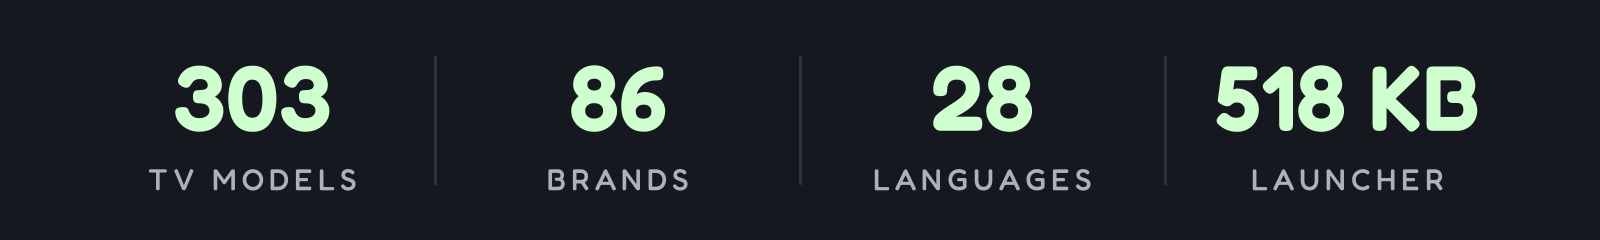
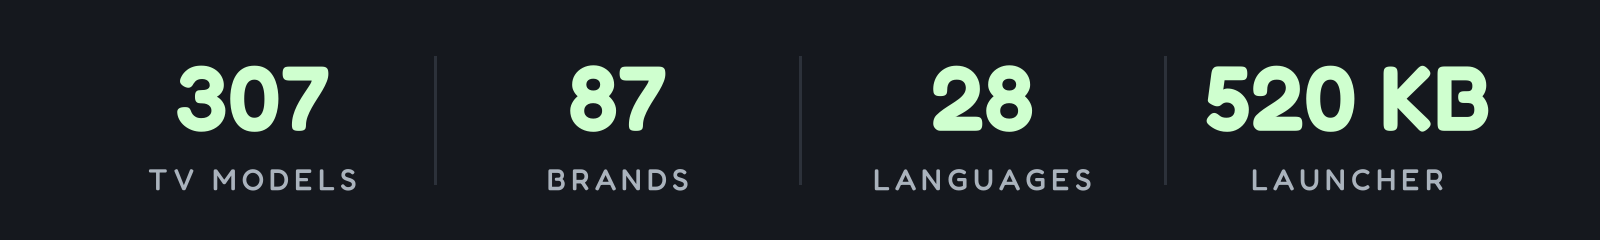
README: tables, counts and card after Round AB (307 TV models, 87 brands, 28 languages, about 520 KB)

Changed region(s): [[0.75, 0.2625, 0.9375, 0.5542], [0.0938, 0.2625, 0.2188, 0.5542], [0.375, 0.2625, 0.4375, 0.5542]]

diff --git a/tests/test_translation_recipe_gate.py b/tests/test_translation_recipe_gate.py
@@ -5,7 +5,7 @@ in `values/strings.xml`, so a full language is by far the largest thing a transl
 adds to `launcher/app/src/main/res/` - and the release APK has a hard budget:
 `.github/workflows/ci.yml`'s `launcher` job, which runs on every pull request in `launcher/`, measures
 `launcher/app/build/outputs/apk/release/app-release.apk` and fails the build at 589,824 B. The launcher
-ships just under that (README.md quotes about 518 KB), and #1271 is a full Korean translation that did
+ships just under that (README.md quotes about 520 KB), and #1271 is a full Korean translation that did
 not fit. Until now the page said nothing about it, so a translator could follow the recipe exactly and
 land a red build at a step the page never mentions.
 

diff --git a/tools/readme_stats.py b/tools/readme_stats.py
@@ -37,7 +37,7 @@ try:
 except ImportError:
     sys.exit("readme_stats.py needs Pillow: tools/venv/bin/pip install -r tools/requirements-perf.txt")
 
-STATS = [("303", "TV MODELS"), ("86", "BRANDS"), ("28", "LANGUAGES"), ("518 KB", "LAUNCHER")]
+STATS = [("307", "TV MODELS"), ("87", "BRANDS"), ("28", "LANGUAGES"), ("520 KB", "LAUNCHER")]
 W, H = 1600, 240
 img = Image.new("RGB", (W, H), "#15181e"); d = ImageDraw.Draw(img)
 def f(size, wt):

diff --git a/examples/README.md b/examples/README.md
@@ -85,8 +85,8 @@ on that firmware, grouped and commented. These are starting points: comment out 
 | `lumio-vision-7/` | Lumio Vision 7 55" (KTC ODM, Realtek, khardi, KTC_LUMIO_4K_EU_23GV1), India | Google TV 14 | First Lumio list: Anoki ACR + Privacy Sandbox ad services, Realtek store-demo/karaoke, Ginga, Google feedback/partner-setup/calendar-sync/ambient screensaver, Play Games, YouTube Music; voice assistant (katniss) off by choice (~100 MB); setupwraith must go with launcherx (active Wi-Fi was system-owned, so Wi-Fi survived; FORCE_SETUPWRAITH=1) and doing so can break Cast; Live TV is com.realtek.tv; remote app buttons YouTube 190 / Netflix 191 / Prime 195 / TL;DR 200; Netflix shipped disabled; reboot-checked |
 | `magcubic-hy300-pro/` | Magcubic HY300 Pro projector (rk3566_rgo, device adt3, Askey) | Android 11 | Calculator, music, file manager, video player, Office, Miracast, HTC store and printing off; same Allwinner/HTC firmware family as the Portronics Beem 470; `com.htc.htcsettings` (projector settings), firmware updaters and factory packages kept; stock HTC launcher left enabled, `set-home-activity` takes Home; HDMI1-3 and CVBS1 list in the Inputs menu; config.json puts SmartTube, YouTube, Nuvio, VLC in the dock |
 | `master-g-mga3200/` | Master-G MGA3200 (SCBC R1, Realtek; Android reports model `ATV R1`), Chile | Android TV 9 | Same SCBC platform as `thomson-t32rtl6000/` and `sanyo-atv-r2/`: Google recommendation rows, telemetry and feedback, SCBC consent agent, S-Channels row, partner auto-installs, E-Show demo, E-Sticker, Vewd store; OTA kept, factory menus left alone; ISDB-T tuner stack, remote/Bluetooth and FastCast must stay; 1.5 GB RAM; 20 packages |
+| `motorola-swtv-24ae-fhd/` | Motorola / Coocaa SWTV-24AE-FHD (24LP6000G, Skyworth OEM, beomil), India/SEA | Google TV 14 | Skyworth OEM board sold as Motorola in India (build UKN4) and Coocaa 24LP6000G in Vietnam/SEA (build UKN6); after-sale/activation trackers, ad services, recommendation rows, demos; Wi-Fi ownership setupwraith gotcha documented; remote Settings button emits keycode 83 (KEYCODE_NOTIFICATION) on scancode 240, needs HomeKeyService; Live TV is `com.cltv.hybrid` (Motorola) or `com.mediatek.wwtv.tvcenter` (Coocaa); reboot-checked |
 | `motorola-mt4310/` | Motorola MT4310 (Newsan; Hisense board, hayward, MediaTek), Argentina | Android TV 11 | Hisense silent auto-installs, store demo and disclaimer, feedback and partner setup, recommendation rows and MediaTek partnercustomizer, printing and calendar; Play Movies, Play Games and TalkBack/TTS off by choice; the factory manager re-enables katniss and tvrecommendations at every boot, so they stay on; 0.9 GB, 720p UI; tvlauncher off for a custom launcher, setupwraith left on (no HOME claim); remote app and Input keys survive the swap; Live TV is `com.mediatek.wwtv.tvcenter` |
-| `motorola-swtv-24ae-fhd/` | Motorola SWTV-24AE-FHD (Skyworth OEM, beomil, MediaTek), India/Global | Google TV 14 | Skyworth after-sale/activation trackers, recommendation rows and partner customizer, TV Guard (dailymanage), Daily Key (myapp), e-manual; Google Play Games and feedback; launcherx + setupwraith off; setupwraith owned Wi-Fi saved at setup; remote Settings button emits keycode 83 (KEYCODE_NOTIFICATION) on scancode 240, needs HomeKeyService; Live TV is `com.cltv.hybrid` |
 | `mtc-uk-2k-android-tv/` | MTC UK 2K Android TV (tabata, MediaTek m5621; JVC-family firmware, `android.autoinstalls.config.JVC` present), UK | Android TV 11 | Google recommendation rows, partner customizer, feedback, ambient mode (katniss + backdrop), retail demo, MStar disclaimer popups, calendar leftovers; UK Freeview suite ships disabled at the factory (re-disabling throws SecurityException, harmless); dumpsys crippled on this firmware ("hung system process"), verify with `pm list packages -d` and screenshots; stock launcher `com.google.android.tvlauncher`, so `restore.sh` needs no launcher argument |
 | `next-start-pro-4k/` | Next Start Pro 4K TV Box (SDT HPR314-Next, Realtek RTD1325), Turkey, streaming box | Google TV 14 | Google feedback, on-device ad personalisation, Google TV home and ambient screensaver, setup wizard (took Home and crash-looped; owned the setup Wi-Fi), factory tests, Next IPTV, Roket and JetTV; Dolby service, Realtek and SDT services kept; **Dolby stutter fix**: Surround on Never plus Realtek's hidden MS12 output set to DD+/Atmos ([README](next-start-pro-4k/README.md)); Projectivy as Home; 2 GB; reboot-checked |
 | `noblex-shinjuku/` | Noblex NoblexTV (Skyworth-built, shinjuku, MediaTek m5621), Argentina | Android TV 11 | Panasonic TH-40HS550K list on the same Skyworth firmware family: Skyworth auto-installs, shop demo and Demo Now, e-manual, MediaTek PQ test tool, Google feedback and smartconnect, recommendation rows and Skyworth's launcher customizer, Assistant, Backdrop; unused apps off by choice; Chromecast kept; 0.9 GB, streaming apps that start on their own at boot are the real RAM cost (appops note); keep `com.mediatek.*` |
@@ -109,6 +109,7 @@ on that firmware, grouped and commented. These are starting points: comment out 
 | `panavox-google-tv/` | PANAVOX Google TV (dongnae) | Google TV 14 | Google TV home replaced (launcherx and setupwraith off), Google telemetry and Privacy Sandbox services, Prime Video, Wi-Fi display sink, calendar and contacts sync, voice (katniss, tv.remote.service), Chromecast, TTS, TalkBack and Google extras off |
 | `peaq-ptv43aqu-5023c/` | PEAQ PTV 43AQU-5023C (Changhong, reports OK. AI PONT, dundas, MediaTek m7332) | Android TV 11 | First PEAQ list, same platform as ok-ai-pont-ikebukuro: Anoki ACR, AI PONT portal, Google recommendations, partner auto-installs, Homwee store/help, Google preloads; Assistant, Ambient, Prime Video and Media Player off by choice; Chromecast and Miracast kept; 1080p, 1.3 GB; setupwraith owns the Wi-Fi network and does not claim HOME, left alone; remote buttons work without tvlauncher; config.json has the dock; reboot-checked |
 | `philips-50pud7406/` | Philips 50PUD7406/43 (TPV, PH0M_EA_T32, MStar/MediaTek), Chile; 55PUS7906/12, Lithuania | Android TV 11 | First list for PH0M_EA_T32 (same board as the 65PUG7406/78 notes), not the org.droidtv xtv platform: DAC/GEL analytics, TPV framework logger and CMS client, app gallery, retail demo, partner customizer, recommendations, ambient mode; Chromecast off because a shared network of ~150 hosts kept pausing and closing YouTube (HOME sent by mediashell); point the screensaver away from the disabled backdrop; Assistant and updates kept; a second unit (EU) adds a boot-to-Live-TV quirk and the MMP player as a TV_INPUT_HARDWARE false positive; a third unit (55PUS7906/12, EU, TPM215E) shows HDMI (PS4) and DVB-T work with the list applied and MMP, eum and nettvregistration kept, and adds six candidate lines |
+| `philips-50puf7099-t3/` | Philips 50PUF7099/T3 (TPV EBONY_V560, Hisilicon), China | Android TV 9 | China-market set, not the org.droidtv platform the other Philips lists cover: BestV/百视通 stock home (`com.bestv.ott`, not in `KNOWN_STOCK_LAUNCHERS`, so pass `STOCK_LAUNCHER=com.bestv.ott`), three package families side by side (`tv.fun.*`, `com.newtv.*`, `com.tpv.*`), no GMS; the casting, camera, video-call and smart-home apps off with the TPV telemetry and ad services and the BestV/NewTV background services, plus the store; the two firmware upgraders are commented out (the tested set had them off, which gives up system OTA, and `tv.fun.tvupgrade` can re-install the BestV home); the preinstalled content apps and the voice assistant kept by choice; the screensaver shipped pointing at a package that is not installed, so there was no DreamService at all; reboot-checked, but one session only and the physical remote untested ([device note](../docs/devices/philips-50puf7099-t3.md)) |
 | `philips-50pus8517/` | Philips 50PUS8517/12 (TP Vision, PH1M_EA_9970A, MediaTek MT5895), Europe | Android TV 11 | First `org.droidtv` TP Vision list: DAC analytics uploader (AWS Firehose), Top Picks, app gallery; Assistant, DLNA, IP control off by choice; disabling `eum` or `aurora` leaves persistent `xtv` retrying forever, and `eum` also kills the sources drawer -- see quirk 5; the same list was also run on a 70PUS8505 and a 65PUS9206 (same board and firmware) |
 | `philips-55oled707/` | Philips 55OLED707/12 (TP Vision, PH1M_EA_9970A, MediaTek MT5895), UK | Android TV 11 | Same board and firmware build as `philips-50pus8517/`, on an OLED panel: DAC analytics, Top Picks, app gallery and its preload installer, Alexa, setupwraith (Ethernet only, Wi-Fi impact unchecked); `nettvbrowser` must stay or ITVX hangs; Play-Fi re-enables itself at every boot, so it is left out; Chromecast and all used streaming apps kept |
 | `philips-55oled708/` | Philips 55OLED708/12 (TPV, PH1M_WW_9972, MediaTek), Poland | Google TV 12 | Google TV generation, not the 707's board: DAC analytics, frameworklogger, Samba TV ACR, NFT Collection, Play-Fi, Control4, Matter, Mimi, Alexa, Chromecast, setupwraith (Wi-Fi re-joined first) and the Philips launcher tab; `demome` holds TV_INPUT_HARDWARE so it stays; the remote's gear and Apps buttons need HomeKeyService (gear by scancode 141); nothing re-enabled after a reboot |
@@ -123,7 +124,7 @@ on that firmware, grouped and commented. These are starting points: comment out 
 | `philips-google-tv-ta7/` | Philips Google TV TA7 (TPV, PH3M_AL_T32, MediaTek), Brazil | Google TV 14 | TP Vision `candeebug`/`gel` analytics, partner attribution and auto-installs, European operator apps, ad-consent and disclaimer popups; Netflix, Prime Video, Google TV app and Chromecast off by choice, Assistant and OTA kept; setupwraith + launcherx off for a custom launcher (setupwraith owned only an unused network); the gear button is KEYCODE_SETTINGS and needs HomeKeyService (`HOME_KEY_SERVICE=1`); theme |
 | `philips-r8g-google-tv/` | Philips R8G Google TV (MOKA, whitefield, Realtek RTD2851F), US | Google TV 14 | Anoki ACR, store-demo overlay, Realtek partner customizer, HbbTV (unused with ATSC), Android ad services; voice and ambient mode off by choice; port 5555 opens without pairing; setupwraith owned the Wi-Fi saved at setup and disabling it deleted the network; the standby light can be switched off over ADB ([note](../docs/devices/philips-r8g.md)) |
 | `philips-smart-4k-google-tv/` | Philips Smart 4K TV (Skyworth, eleonas, MediaTek), India | Google TV 14 | Skyworth recommendations, after-sale/activation trackers, iCast; Chromecast, Assistant off by choice; wireless-debugging pairing, setupwraith |
-| `philips-tpm191e/` | Philips TPM191E / 50PUS8505 / 55OLED854 (TP Vision, PH9M_EA_5599, MediaTek MT5887), Europe | Android TV 12 | `org.droidtv` TP Vision list on Android 12: DAC analytics uploader, usage logging, demo mode, Top Picks, app gallery; voice, Prime Video, DLNA off by choice; Alexa, Chromecast and updates kept; DTS Play-Fi is re-enabled at every boot by the audio service, so it is left on; `eum`, `nettvbrowser`, `menudataapp` and `nettvregistration` kept, as on the 50PUS8517; for the 50PUS8505 and the 55OLED854, only an owner-selected subset and launcher handover were checked in one session, not the full list; the 55OLED854 found its remote's Settings button (scancode 357) and the OLED screensaver logo also seen on a different board ([notes](philips-tpm191e/README.md)) |
+| `philips-tpm191e/` | Philips TPM191E / 50PUS8505 / 55OLED854 / 65OLED804 (TP Vision, PH9M_EA_5599, MediaTek MT5887), Europe | Android TV 12 | `org.droidtv` TP Vision list on Android 12: DAC analytics uploader, usage logging, demo mode, Top Picks, app gallery; voice, Prime Video, DLNA off by choice; Alexa, Chromecast and updates kept; DTS Play-Fi is re-enabled at every boot by the audio service, so it is left on; `eum`, `nettvbrowser`, `menudataapp` and `nettvregistration` kept, as on the 50PUS8517; for the 50PUS8505 and the 55OLED854, only an owner-selected subset and launcher handover were checked in one session, not the full list; the 55OLED854 found its remote's Settings button (scancode 357) and the OLED screensaver logo also seen on a different board; on the 65OLED804 tvrecommendations stayed off through restarts, and a held Home press needs `home_long_press_home` ([notes](philips-tpm191e/README.md)) |
 | `polytron-2k-hayward/` | Polytron 2K (WLTV POLYTRON2K, hayward; Hisense/CVTE board, MediaTek mt5867), Indonesia | Android TV 11 | Hisense silent auto-installs, MediaTek partnercustomizer, Google recommendations, feedback and partner setup, store demo and disclaimer; voice search, Chromecast, YouTube, Netflix and TTS off by choice; 1 GB, 720p UI, decoders up to 1080p; tvlauncher + setupwraith off for a custom launcher; Live TV is com.mediatek.wwtv.tvcenter |
 | `portronics-beem-470/` | Portronics Beem 470 Smart LED Projector (Allwinner H713, 1 GB), India | Android 11 | First Portronics list: HTC stock launcher/OTA/telemetry and app store, Allwinner Live TV/media/theme apps, stock YouTube replaced by SmartTube, AOSP phone/print/cell leftovers; casting/EShare kept; HOME key needs both setup flags, and Settings needs an explicit component because the firmware answers no ACTION_SETTINGS |
 | `prismplus-q65-ultra-r10g/` | PRISM+ Q65 Ultra 2026 QLED 4K AI Google TV (R10G, PRISMPLUS_FFM, MOKA, Realtek RTD2875 SoC, RTD6748 platform) | Google TV 14 | Realtek partner customizer, Google partner setup and auto-installs, ambient mode, unused DTMB/ISDB/ATSC tuners, karaoke, preloaded apps; Max off by choice; keep com.realtek.dtv and com.realtek.tv.atv for inputs |
@@ -137,6 +138,7 @@ on that firmware, grouped and commented. These are starting points: comment out 
 | `sankey-smart-tv-hi3751v350/` | Sankey SMART_TV (CVTE, HiSilicon Hi3751V350, 1 GB) | Android 12 | CVTE ad and push services (`gaia.ad`, `wonder.cloud`, `industries`), the ad screensaver, the "cleaner", the stock weather and Google feedback; Miracast off by choice; the CVTE store kept by default (it hosts the stock launcher's Apps grid; the tested set turned it off because it kept pushing a CVTE-signed "WebTube" as a YouTube update); no Developer options and no App info page, ADB from the CVTE factory menu (MENU 1147); stock launcher kept (no FallbackHome, `COMMON_HOME`, #1201); Inputs pill opens `com.cvte.tv.globalui/.InputSourceActivity` |
 | `sanyo-atv-r2/` | SANYO ATV R2 (SCBC, Realtek RTD285O) | Android TV 9 | S-Channels, E-SHOW demo, Vewd, TV Booster, SANYO OTA |
 | `sber-salute-tv-at30a6/` | Sber Salute TV 43" (CVTE TP.T962D4.PC756, Amlogic T962D4, at30a6, 2 GB), Russia | StarOS 1.101 / Android 13 | First StarOS list: Sber content apps, SberPrime, kids room, smart home, Salute browser and screensaver, app catalogue, surveys, beta, bug reporter, cleaner, Huawei Cast/MHshare/DLNA receivers; OTA kept by default; Sber's platform service reinstalls removed apps (disable only) and cannot itself be disabled (its core re-enables it, component disables are refused), so the Salute voice assistant stays; Developer options locked and Sber Studio's ADB switch did not open 5555, see README; app "rotation" limit lowered with `sys_storage_threshold_percentage`; Inputs work through `ru.sberdevices.tvinputs`; reboot-checked |
+| `seleco-tv39020hda9smart/` | Seleco TV39020HDA9SMART 39" (AT_SmartScreen, Toptech + Zeasn, Realtek RTK2842P), Italy | Android TV 9 | Same Toptech/Zeasn platform as [caxium-58-realtek-rtk2851p](caxium-58-realtek-rtk2851p/): Zeasn device portal, services feed and store, partner auto-installs, retail demo, print spooler, camera, live wallpapers, Chrome, USB media player; phone Netflix, voice search and Miracast off by choice; shipped with the phone build of Prime Video instead of the TV app, replaced by hand; stock Zeasn Home disabled last; Live TV and inputs stay with `com.toptech.tvmenu`, whose `.input.InputActivity` the Inputs pill opens; the remote's Input key still goes to the Zeasn Home; config.json has the dock; reboot-checked |
 | `sharp-2t-c32gh3000i/` | SHARP 2T-C32GH3000I (SHARP 2K Smart TV-A; Skyworth-built, beomil, MediaTek mt5867), Indonesia | Google TV 14 | Same platform as the Motorola SWTV-24AE-FHD: Skyworth after-sale/activation trackers, recommendation rows and partner customizer, TV Guard, Daily Key, e-manual, iCast; Android ad services; dreamx, Chromecast, Prime Video, YouTube Music off by choice; wireless-debugging pairing only; setupwraith owned the Wi-Fi saved at setup; remote gear sends keycode 83; Live TV is `com.cltv.hybrid`; 1 GB |
 | `sharp-aquos-tve21f/` | SHARP AQUOS TVE21F (AQUOS-TVE21F, banqiao, CVTE/MediaTek), UK | Android TV 14 | Anoki ACR, retail demo, factory/test apps, PAI auto-installs; Google recommendations and setup wizard (Wi-Fi owned by system); Assistant, Chromecast and phone remote off by choice; unused streaming off by choice; 1.8 GB; YouTube button stays with the vendor `com.cvte.hotkey.dispatcher` |
 | `sharp-aquos-tve23a/` | SHARP AQUOS TVE23A (AQUOS-TVE23A, sandiego, CVTE/MediaTek mt5889), Denmark | Google TV 14 | Google TV sibling of the TVE21F: Anoki ACR, retail demo, e-manual, factory/test apps, partner rows; Android ad services; Prime Video, YouTube, YouTube Music, Play Games, Chromecast and Google TTS off by choice; setupwraith owned the Wi-Fi saved at setup; remote gear is KEYCODE_STAR (17), YouTube is KEYCODE_TV_INPUT_COMPOSITE_1, Netflix stays with the firmware; 2.7 GB |
@@ -191,6 +193,7 @@ on that firmware, grouped and commented. These are starting points: comment out 
 | `stellamore-t950s/` | Stellamore T950S projector (Droidlogic be30a3, Amlogic txhd2) | Android 13 | Zeasn App Store and stock launcher both bundle Google Ads (doubleclick); Zeasn device portal/OTA, Stellamore factory/test/guide; 1 GB; keystone correction must stay enabled |
 | `super-general-cvte-t972/` | Super General 55" 4K (CVTE TP.SK708D.PC821, Amlogic T972, x30a4, 1 GB), Saudi Arabia | Android 9 | Not Google TV; `com.sdk.hades` adware in two silently installed packages, CVTE ad services and ad screensaver, Stark store, cleaner, weather, firmware updater; Play Services ships disabled (`pm enable` it); ADB from the factory menu (MENU 1147 on a source); app buttons come from CVTE's hotkey service, Source is left to the app in front (open `com.cvte.tv.globalui/.InputSourceActivity`), a key-filtering accessibility service breaks Volume hold; NFX repointed with a same-package stand-in; third-party launcher; reboot-checked; [notes](super-general-cvte-t972/README.md) |
 | `tcl-mt9655-cn-android14/` | TCL / FFalcon China (tcl9655_cn, MediaTek MT9655 "merak", UTT2.250416.001 AU01) | Android 14 | No Google services; no Developer options at all — the ADB toggle opens adbd in TLS mode on a random port with no pairing service, so the only way in is a dual male USB-A cable (PC USB 3.0 → TV USB 2.0) and then `adb tcpip 5555`; every adb install is refused (`Install not allowed` from system_server), only a USB stick through 电视卫士 installs apps; debloat only, stock launcher cannot be replaced (`launcherStrategy` allowlist empty, verifier demands the cyberui signature); reboot-checked; [why the debloat works and the installs do not](../docs/devices/tcl-mt9655-cn-android14.md) |
+| `tcl-32es570f/` | TCL 32ES570F (C06, C06_2K_GB, MStar mt5867, 939 MB), Italy | Android TV 11 | Older V8-T221T01-LF1V121 firmware than `tcl-32s5k/`; TCL Home, Quick Panel and T-Solo disabled with the remote still working; ttvs re-enables Rakuten, Alexa and usercenter at every boot; TGuard disables but keeps running; no standby-LED setting |
 | `tcl-32l5a/` | TCL 32L5A (C06, model "Smart TV", 1 GB) | Android TV 11 | Same C06 platform as `tcl-32s5400a/` (SDK 30, build AR2101); TCL account, TGuard cleaner, promo rows, TCL Channel waterfall, store demo sticker, browser, feedback and Google TV recommendations; custom Apple TV style launcher installed as default home (`com.gathin.tvhome`), stock launcher `com.google.android.tvlauncher` disabled; Live TV `com.tcl.tv` and inputs `com.tcl.tvinput` kept; reboot-checked |
 | `tcl-32s5400a/` | TCL 32S5400A (C06, C06_2K_GB, MediaTek MT9221, 1 GB), 2023 | Android TV 11 | Same C06 platform as `tcl-40s5400a/`, but older AR2101 / V8-T221T05-LF1V005 firmware and SonyLIV/YuppTV preloads; TCL account/TGuard/promos, Google extras, regional preloads; firmware updater kept (ttvs is the updater); stock launcher priority 2, keep the remote/BT/TCL settings packages; a second unit on V8-T221T01-LF1V121 needs 500 MB free before any install (`pm trim-caches`) |
 | `tcl-32s5k/` | TCL 32S5K (C06, C06_2K_GB, MediaTek MT9221, 918 MB), EU | Android TV 11 | Same build family as the 40S5400A; TCL account/TGuard/promo rows, USB players, voice and photo screensaver off by choice; `com.tcl.usercenter` is re-enabled by ttvs at every boot; setupwraith safe here (Settings owns the Wi-Fi); remote standby is a full power-down |
@@ -220,6 +223,7 @@ on that firmware, grouped and commented. These are starting points: comment out 
 | `tcl-55p7k/` | TCL 55P7K, Middle East (G10, G10_4K_GB, Realtek RTD2875P) | Google TV 12 | Same G10 build as `tcl-g10-google-tv/` but logkit, Samba TV ACR and ttvs ship enabled; TCL Channel, push messages, TGuard, T-Solo, Alexa, hotel/demo; OSN+, Disney+ MEA, iQIYI off by choice; setupwraith before launcherx; Settings key is KEYCODE_NOTIFICATION, Web key 4159; TCL Audio Only turns the panel off with sound playing |
 | `tcl-55p8ls/` | TCL 55P8LS QD-Mini LED, Vietnam (G10, G10_4K_GB_32BIT, Realtek rtd6748) | Google TV 12 | Same G10 build as `tcl-g10-google-tv/`; Samba TV ACR, logkit, ttvs, TCL Channel/push/partner home rows, hotel/demo, TGuard, Alexa, T-Solo, MagiConnect, Miracast; Prime Video, YouTube Music, Play Movies/Games off by choice; saved Wi-Fi belonged to setupwraith (re-join first); Play Store auto-installs VTV Go, HBO Max, iQIYI at sign-in; launcher key services need APP_AUTO_START; reboot-checked |
 | `tcl-q10g-pro/` | TCL 55Q10G Pro (China, tcl_mt5879_cn, MediaTek MT9952) | Android TV 11 | No Google services, TCL boot ad + analytics/BI, OTA and account services; ADB opens from Device info + UP/DOWN/LEFT/RIGHT, not the build number; debloat only, stock launcher cannot be replaced (signature check at install time) |
+| `tcl-55q6cx1/` | TCL 55Q6CX1 (Smart TV Pro, G08, G08_4K_GB, MediaTek) | Google TV 12 | European G08 build (STT2.221228.001 AS35): TCL promos, push messages, onboarding overlays, telemetry/logkit, Google Play Movies, TTS, dreamx screensaver; launcherx and setupwraith safely disabled (Wi-Fi owned by system, not setupwraith) and replaced with CleanYourTV; Game Bar, T-Exhibit, AirPlay, Chromecast, Miracast and DVB tuner kept; suspension/interactive/ttvs kept (they host the Source QuickPanel and live TV overlays); key helpers left unbound to preserve volume ramp; duplicate WebViews commented (check the active provider first); reboot-checked |
 | `tcl-55s470g/` | TCL 55S470G (G10, G10_4K_US_NF, Realtek), US | Google TV 12 | Same build as the G10 list, but Samba TV, logkit and ttvs ship enabled; ttvs kept (it hosts the firmware updater) and re-enables Samba's front end at boot, so opt out in Settings > Privacy too; Assistant voice and Chromecast off by choice; setupwraith off (Wi-Fi belonged to android.uid.system); remote gear button (keycode 83) opens the quick settings panel and the app buttons are remapped (Pluto TV opens Tubi); `APP_AUTO_START` must be allowed for the launcher or TclAppBoot stops the key service at boot; reboot-checked |
 | `tcl-55s546-us/` | TCL 55S546 (5-Series, G03_4K_US, BeyondTV4, GTV93), US | Google TV 11 | Same G03 platform as tcl-g03-google-tv on the US GTV93 build: TCL telemetry, promos and preloads off; TCL+ and TCL Channel kept; launcherx off with remote app buttons and volume repeat still working, no key helper needed; reboot-checked |
 | `tcl-58s571f-fire-tv/` | TCL 58S571F (TCL Fire TV, AFTDEC012E, ginza, MediaTek mt5896), US | Fire OS 8 / Android 11 | The S5 sibling of `tcl-43s450f-ca/` (same AFTDEC012E platform as `amazon-fire-tv-aftdec012e/`): Amazon ACR, ad/recommendation feeders, advertising ID, Shopping, demo, tutorials, telemetry, KSO service; Alexa extras, preloads and TCL apps (OpApp, Luna, Kids, News, Gallery, System Status, Prime Video) off by choice; Alexa voice returns at every boot as on the Hisense; the stock launcher also owns Settings; Appstore kept for the remote's branded buttons; AirPlay, Miracast, Live TV, Silk kept; debloat only |
@@ -248,7 +252,7 @@ on that firmware, grouped and commented. These are starting points: comment out 
 | `tcl-q7c-google-tv/` | TCL Q7C (Smart TV Pro, G08, G08_4K_GB, MediaTek tcl9618), European firmware | Google TV 14 | Same build as the 85RM7L list (AU02), with the launcher: TCL promos, home pushes, Channel+/waterfall, account, TGuard cleaner, log capture, Android 14 ad and privacy services, manual/repair/hearing/solo apps, soundbar updater, Alexa; Assistant, AirPlay, Miracast/T-Cast, Netflix, Prime Video, Google TV and Play Games off by choice; ttvs, Chromecast, game bar and dreamx kept; launcherx and setupwraith off (Ethernet, FORCE_SETUPWRAITH=1); every remote button is scancode 240, keycodes in the README (Settings 83, YouTube 190); the debugging switch did not close port 5555, check adb_enabled; reboot-checked; a second unit, a 65Q7D Pro on Wi-Fi in Greece, is in its README (Wireless debugging only, setupwraith owned the Wi-Fi in use, the key helpers cost volume repeat); a fourth unit, a 65T8C on Wi-Fi, also in its README (Wireless debugging only, AirPlay and Prime Video kept, TCL keyboard off after Gboard); a fifth unit, an EU/UK set OTA'd from Android 12, in its README (OTA re-enabled nothing and installed channelplus; Source-key QuickPanel via suspension; keyboard and browser kept) |
 | `tcl-qm6k-google-tv/` | TCL QM6K Pro, 2025 (G08, MediaTek tcl9618) | Google TV 14 | Samba TV ACR (ttvs), TCL TV+, TCL Live, store/hotel demo; setupwraith must go for a custom launcher (also AU14, #23); a QM7 (2024) owner ran this list with seven extra packages — [deltas and a hung Cast receiver](../docs/devices/tcl-75qm751g-qm7.md) |
 | `tcl-g07-google-tv/` | TCL Smart TV (G07, G07_4K_GB_NF, Realtek RTD2851A, 2 GB) | Google TV 11 | TCL BI analytics (ttvs, also the firmware updater), TGuard, waterfall, TCL Live, TCL Home dashboard, messages, hotel/demo, partner auto-installs; voice, Miracast, MagiConnect, T-Solo, firmware updates and unused preloads off by choice, Chromecast kept; launcherx, setupwraith and dreamx off (Wi-Fi belonged to android.uid.system), reboot-checked; Input key works without InputKeyService, gear is scancode 561 (`settings_key_scancodes`), Netflix and YouTube buttons need an accessibility helper |
-| `tcl-g03-google-tv/` | TCL Smart TV Pro (G03, G03_4K_GB, BeyondTV4, Realtek R51MT05, V8-R51MT05-LF1V620), Middle East firmware | Google TV 11 | Same platform as tcl-43c645: TCL BI analytics and logkit, promo rows (TCL Channel, BrowseHere), dashboard, messages, partner auto-installs; streaming apps, voice, Chromecast, Miracast/T-Cast, USB player, game bar, TCL Live off by choice, firmware updates kept; launcherx, setupwraith and dreamx off (setupwraith owned the Wi-Fi: forget and re-join first), reboot-checked; Input key works without InputKeyService, gear is keycode 4077 (`settings_key_keycodes`), config.json sets Live TV to com.tcl.tv; a second unit on the same build ships a Bluetooth TCL_RC902V_M1 remote whose Netflix/YouTube/Prime buttons die with launcherx and come back from `app_keys` (in config.json, verified with the real remote) |
+| `tcl-g03-google-tv/` | TCL Smart TV Pro (G03, G03_4K_GB / G03_4K_US, BeyondTV4, Realtek R51MT05, V8-R51MT05-LF1V620 / LF1V813), Middle East and US firmware | Google TV 11 | Same platform as tcl-43c645: TCL BI analytics and logkit, promo rows (TCL Channel, BrowseHere), dashboard, messages, partner auto-installs; streaming apps, voice, Chromecast, Miracast/T-Cast, USB player, game bar, TCL Live off by choice, firmware updates kept; launcherx, setupwraith and dreamx off (setupwraith owned the Wi-Fi: forget and re-join first), reboot-checked; Input key works without InputKeyService, gear is keycode 4077 (`settings_key_keycodes`), config.json sets Live TV to com.tcl.tv; a second unit on the same build ships a Bluetooth TCL_RC902V_M1 remote whose Netflix/YouTube/Prime buttons die with launcherx and come back from `app_keys` (in config.json, verified with the real remote); a US unit (GTV93) shows dreamx also hosts the Google Home panel and TCL's updater needs StartandroidService for its device number, so it stays on |
 | `tcl-g05-google-tv/` | TCL Smart TV Pro (G05, G05_4K_US, MediaTek MT5889); also TCL 55Q750G | Google TV 11 | TCL Channel, waterfall, ttvs BI (also the firmware updater on AR71), TGuard; Quick Panel off by choice (the 55Q750G keeps it for the Input key); usercenter and smartalexa come back at every boot; setupwraith returned after a reboot on AR68, launcher half unverified there, but on a 55Q750G (AR71) build-and-install.sh worked and Home held after a reboot, once the setup Wi-Fi was forgotten and re-joined; remote buttons work without the key services (the G05_4K_GB units kept it off too, see the [55C728 note](../docs/devices/tcl-55c728-g05-4k-gb.md)) |
 | `tcl-g08-au-android12/` | TCL Smart TV Pro (G08, G08_4K_GB, MediaTek), Australian firmware | Google TV 12 | Same fingerprint as the EU G08 list (STT2.221228.001 AS34) plus the Australian preloads: Stan, AirPlay (kept), TCL Channel, TCL Live free channels (channelplus), e-sticker, hotel portal, TCL Guard; no Google Cast or voice assistant. Launcher with HomeKeyService: Settings, TV (HDMI 1), YouTube→SmartTube and Netflix→Plex buttons mapped, at the cost of volume repeat (measured on this G08 too). No aerial, so with channelplus off there is no Live TV: the tuner only holds TCL Live IP channels and falls back to HDMI 1 |
 | `tcl-g08-eu-android12/` | TCL Smart TV Pro (G08, G08_4K_GB, MediaTek), Europe/UK firmware | Android TV 12 | Older EU G08 build (STT2.221228.001 AS34): the US list applies only partially — no Samba-ACR ttvs payload, no AirplayAPK, no hotelmenu/TV+/e-sticker preloads, no Android 14 ad services. TCL pushes/demo/help, duplicate webviews, Mediatek casting leftovers, Play Movies, TTS, dreamx, printspooler; suspension/interactive/ttvs listed as DO-NOT-DISABLE (they host the Source-key QuickPanel and the TIAS source overlay — disabling kills the remote Source key, verified fix on a live set); stock launcher kept; debloat only. A second unit, a 75Q7C on AS36 with five more TCL preloads (commented), runs the launcher as Home: remote keycodes and the volume-repeat trade in the README |
@@ -298,7 +302,7 @@ on that firmware, grouped and commented. These are starting points: comment out 
 | `xiaomi-mitv-moor2/` | Xiaomi MiTV-MOOR2 / MOOR4 (venom, MediaTek) | Google TV 11 | Mi ad row and PatchWall, Mi analytics, MiLink, store demo; setup wizard off so a third-party launcher can own Home; MOOR4 on the same firmware: setupwraith owned the setup Wi-Fi (forget and re-join first), Continue watching is not in the local TV provider |
 | `xiaomi-mitv-mosr4/` | Xiaomi MiTV-MOSR4 (irobot, MediaTek) | Google TV 11 | Mi ad rows and PatchWall, Mi analytics, TV Manager, Miracast sink, OTA off by choice; setup wizard off so a third-party launcher can own Home; `overseaservice` hosts the Netflix key and must stay; second unit: setupwraith before launcherx, remote buttons need both key services and `config.json`, and those services cost the volume's live repeat; [notes](../docs/devices/xiaomi-mitv-mosr4.md) |
 | `xiaomi-mitv-mssp0/` | Xiaomi MiTV-MSSP0 / Xiaomi Mi TV 4A 32 (amelie), firmware PI.5926 | Android TV 9 | Xiaomi telemetry and promo helpers, Google recommendation feeds; Assistant, Gallery and media browser off by owner choice; Clock replaces Backdrop; TV inputs, Gboard, Bluetooth and firmware update settings kept; 11 packages, applied October 19 and checked again October 21 |
-| `xiaomi-mitv-mssp1/` | Xiaomi MiTV-MSSP1 (nino), firmware PI.5925 | Android TV 9 | Eight Xiaomi telemetry/content and Google recommendation packages; replacement Home reboot-checked; updater, Assistant, Chromecast, USB media and TV input services kept enabled |
+| `xiaomi-mitv-mssp1/` | Xiaomi MiTV-MSSP1 (nino), firmware PI.5925 | Android TV 9 | Eight Xiaomi telemetry/content and Google recommendation packages, plus verified extras (report senders, partner auto-installer, both heavy screensavers with a reassign-first warning, TV Manager, restorable Google preinstalls, Xiaomi media/accessibility leftovers); replacement Home reboot-checked; updater, Assistant, Chromecast, USB media and TV input services kept enabled |
 | `xiaomi-mitv-mssp2/` | Xiaomi MiTV-MSSP2 (volver, MediaTek), firmware PI.4621, low-RAM | Android TV 9 | PatchWall, Mi analytics, TV Manager, partner auto-installs, Google feedback/bug reports, old leanback home still installed; hotkeys, phone remote, Media Player, updater and Chromecast kept; empty Live TV/HDMI screenshots |
 | `xiaomi-mitv-mssp3/` | Xiaomi MiTV-MSSP3 (machuca, MediaTek) | Android TV 11 | PatchWall, Mi analytics, Netflix observer; Chromecast, screensavers, unused streaming apps off by choice |
 | `xiaomi-mitv-mssp3-android9/` | Xiaomi MiTV-MSSP3 (machuca, MediaTek), Android 9 firmware PI.7524 | Android TV 9 | Same model before its Android 11 update: PatchWall, Mi analytics, TV Manager, OTA; voice assistant re-enables itself at every boot (updated system app rescan); screensaver, preloaded apps off; 1.8 GB, swap full before; notes for the older PI.4663 build (two packages absent, old leanback home to disable) |

diff --git a/README.md b/README.md
@@ -20,7 +20,7 @@
 </p>
 
 <p align="center">
-  <a href="docs/PRESS.md"><img src="docs/card.jpg" alt="303 TV models · 86 brands · 28 languages · 518 KB launcher. Featured in TechCrunch, TechRadar, Tom's Guide, Mashable, Android Authority, XDA, FlatpanelsHD, It's FOSS, Phandroid, GIGAZINE, Xataka, WinFuture, Frandroid, Macitynet, Techaeris, TechPP and 180 more: 196 articles from 32 countries. Before: stock Google TV home with a sponsored ad. After: the Clean Your TV launcher." width="800"></a>
+  <a href="docs/PRESS.md"><img src="docs/card.jpg" alt="307 TV models · 87 brands · 28 languages · 520 KB launcher. Featured in TechCrunch, TechRadar, Tom's Guide, Mashable, Android Authority, XDA, FlatpanelsHD, It's FOSS, Phandroid, GIGAZINE, Xataka, WinFuture, Frandroid, Macitynet, Techaeris, TechPP and 180 more: 196 articles from 32 countries. Before: stock Google TV home with a sponsored ad. After: the Clean Your TV launcher." width="800"></a>
 </p>
 
 **The viral tweet:** [x.com/gathint/status/2111379569030939102](https://x.com/gathint/status/2111379569030939102)
@@ -118,14 +118,15 @@ Tested lists from contributors, one folder per model in [`examples/`](examples/)
 
 <!-- tv-brands:start: generated by tools/gen_tables.py from examples/*/tv.json; edit those, not this -->
 
-**TCL** 66 · **Sony** 37 · **Xiaomi** 31 · **Philips** 16 · **Skyworth** 11 · **Hisense** 10 · **Amazon Fire TV** 7 ·
+**TCL** 68 · **Sony** 37 · **Xiaomi** 31 · **Philips** 17 · **Skyworth** 11 · **Hisense** 10 · **Amazon Fire TV** 7 ·
 **BenQ** 4 · **OnePlus** 4 · **Panasonic** 4 · **Thomson** 4 · **Google** 3 · **Haier** 3 · **JVC** 3 ·
 **NVIDIA Shield** 3 · **SHARP** 3 · **Vu** 3 · **CHiQ** 2 · **FFalcon** 2 · **Hitachi** 2 · **Insignia Fire TV** 2 ·
 **Kalley** 2 · **Kogan** 2 · **Motorola** 2 · **Nokia** 2 · **onn** 2 · **RCA** 2 · **Redmi** 2 · **RockTek** 2 ·
 **Sankey** 2 · **Toshiba** 2 · **Vidda** 2 ·
 Acer · AiPro2K · AIWA · AQUA · Artel · ASUS · Beko · Caxium · Cecotec · Challenger · Compac · Dcolor · Dialog · EKO ·
 Freebox · Grundig · INCLO · Karbonn · KTC · Liberton · Lumio · Master-G · MTC · Next · Noblex · OK. · Panavox · PEAQ ·
-Polytron · PRISM+ · SANYO · Sber · Super General · Tele System · TiVo · Tornado · Turkcell · Tuvio · Verizon · Vision ·
+Polytron · PRISM+ · SANYO · Sber · Seleco · Super General · Tele System · TiVo · Tornado · Turkcell · Tuvio · Verizon ·
+Vision ·
 Alwtniet, Anker Nebula, BYINTEK, Epson, Formovie, Gadnic, HOTACK, HY320, JMGO, Magcubic, Portronics, Stellamore, Wanbo and XGIMI projectors
 
 <!-- tv-brands:end -->
@@ -215,8 +216,8 @@ Alwtniet, Anker Nebula, BYINTEK, Epson, Formovie, Gadnic, HOTACK, HY320, JMGO, M
 | Lumio Vision 7 55" (KTC ODM, Realtek, khardi, KTC_LUMIO_4K_EU_23GV1), India | Google TV 14 |
 | Magcubic HY300 Pro projector (rk3566_rgo, device adt3, Askey) | Android 11 |
 | Master-G MGA3200 (SCBC R1, Realtek; Android reports model `ATV R1`), Chile | Android TV 9 |
+| Motorola / Coocaa SWTV-24AE-FHD (24LP6000G, Skyworth OEM, beomil), India/SEA | Google TV 14 |
 | Motorola MT4310 (Newsan; Hisense board, hayward, MediaTek), Argentina | Android TV 11 |
-| Motorola SWTV-24AE-FHD (Skyworth OEM, beomil, MediaTek), India/Global | Google TV 14 |
 | MTC UK 2K Android TV (tabata, MediaTek m5621; JVC-family firmware, `android.autoinstalls.config.JVC` present), UK | Android TV 11 |
 | Next Start Pro 4K TV Box (SDT HPR314-Next, Realtek RTD1325), Turkey, streaming box | Google TV 14 |
 | Noblex NoblexTV (Skyworth-built, shinjuku, MediaTek m5621), Argentina | Android TV 11 |
@@ -239,6 +240,7 @@ Alwtniet, Anker Nebula, BYINTEK, Epson, Formovie, Gadnic, HOTACK, HY320, JMGO, M
 | PANAVOX Google TV (dongnae) | Google TV 14 |
 | PEAQ PTV 43AQU-5023C (Changhong, reports OK. AI PONT, dundas, MediaTek m7332) | Android TV 11 |
 | Philips 50PUD7406/43 (TPV, PH0M_EA_T32, MStar/MediaTek), Chile; 55PUS7906/12, Lithuania | Android TV 11 |
+| Philips 50PUF7099/T3 (TPV EBONY_V560, Hisilicon), China | Android TV 9 |
 | Philips 50PUS8517/12 (TP Vision, PH1M_EA_9970A, MediaTek MT5895), Europe | Android TV 11 |
 | Philips 55OLED707/12 (TP Vision, PH1M_EA_9970A, MediaTek MT5895), UK | Android TV 11 |
 | Philips 55OLED708/12 (TPV, PH1M_WW_9972, MediaTek), Poland | Google TV 12 |
@@ -253,7 +255,7 @@ Alwtniet, Anker Nebula, BYINTEK, Epson, Formovie, Gadnic, HOTACK, HY320, JMGO, M
 | Philips Google TV TA7 (TPV, PH3M_AL_T32, MediaTek), Brazil | Google TV 14 |
 | Philips R8G Google TV (MOKA, whitefield, Realtek RTD2851F), US | Google TV 14 |
 | Philips Smart 4K TV (Skyworth, eleonas, MediaTek), India | Google TV 14 |
-| Philips TPM191E / 50PUS8505 / 55OLED854 (TP Vision, PH9M_EA_5599, MediaTek MT5887), Europe | Android TV 12 |
+| Philips TPM191E / 50PUS8505 / 55OLED854 / 65OLED804 (TP Vision, PH9M_EA_5599, MediaTek MT5887), Europe | Android TV 12 |
 | Polytron 2K (WLTV POLYTRON2K, hayward; Hisense/CVTE board, MediaTek mt5867), Indonesia | Android TV 11 |
 | Portronics Beem 470 Smart LED Projector (Allwinner H713, 1 GB), India | Android 11 |
 | PRISM+ Q65 Ultra 2026 QLED 4K AI Google TV (R10G, PRISMPLUS_FFM, MOKA, Realtek RTD2875 SoC, RTD6748 platform) | Google TV 14 |
@@ -267,6 +269,7 @@ Alwtniet, Anker Nebula, BYINTEK, Epson, Formovie, Gadnic, HOTACK, HY320, JMGO, M
 | Sankey SMART_TV (CVTE, HiSilicon Hi3751V350, 1 GB) | Android 12 |
 | SANYO ATV R2 (SCBC, Realtek RTD285O) | Android TV 9 |
 | Sber Salute TV 43" (CVTE TP.T962D4.PC756, Amlogic T962D4, at30a6, 2 GB), Russia | StarOS 1.101 / Android 13 |
+| Seleco TV39020HDA9SMART 39" (AT_SmartScreen, Toptech + Zeasn, Realtek RTK2842P), Italy | Android TV 9 |
 | SHARP 2T-C32GH3000I (SHARP 2K Smart TV-A; Skyworth-built, beomil, MediaTek mt5867), Indonesia | Google TV 14 |
 | SHARP AQUOS TVE21F (AQUOS-TVE21F, banqiao, CVTE/MediaTek), UK | Android TV 14 |
 | SHARP AQUOS TVE23A (AQUOS-TVE23A, sandiego, CVTE/MediaTek mt5889), Denmark | Google TV 14 |
@@ -321,6 +324,7 @@ Alwtniet, Anker Nebula, BYINTEK, Epson, Formovie, Gadnic, HOTACK, HY320, JMGO, M
 | Stellamore T950S projector (Droidlogic be30a3, Amlogic txhd2) | Android 13 |
 | Super General 55" 4K (CVTE TP.SK708D.PC821, Amlogic T972, x30a4, 1 GB), Saudi Arabia | Android 9 |
 | TCL / FFalcon China (tcl9655_cn, MediaTek MT9655 "merak", UTT2.250416.001 AU01) | Android 14 |
+| TCL 32ES570F (C06, C06_2K_GB, MStar mt5867, 939 MB), Italy | Android TV 11 |
 | TCL 32L5A (C06, model "Smart TV", 1 GB) | Android TV 11 |
 | TCL 32S5400A (C06, C06_2K_GB, MediaTek MT9221, 1 GB), 2023 | Android TV 11 |
 | TCL 32S5K (C06, C06_2K_GB, MediaTek MT9221, 918 MB), EU | Android TV 11 |
@@ -350,6 +354,7 @@ Alwtniet, Anker Nebula, BYINTEK, Epson, Formovie, Gadnic, HOTACK, HY320, JMGO, M
 | TCL 55P7K, Middle East (G10, G10_4K_GB, Realtek RTD2875P) | Google TV 12 |
 | TCL 55P8LS QD-Mini LED, Vietnam (G10, G10_4K_GB_32BIT, Realtek rtd6748) | Google TV 12 |
 | TCL 55Q10G Pro (China, tcl_mt5879_cn, MediaTek MT9952) | Android TV 11 |
+| TCL 55Q6CX1 (Smart TV Pro, G08, G08_4K_GB, MediaTek) | Google TV 12 |
 | TCL 55S470G (G10, G10_4K_US_NF, Realtek), US | Google TV 12 |
 | TCL 55S546 (5-Series, G03_4K_US, BeyondTV4, GTV93), US | Google TV 11 |
 | TCL 58S571F (TCL Fire TV, AFTDEC012E, ginza, MediaTek mt5896), US | Fire OS 8 / Android 11 |
@@ -378,7 +383,7 @@ Alwtniet, Anker Nebula, BYINTEK, Epson, Formovie, Gadnic, HOTACK, HY320, JMGO, M
 | TCL Q7C (Smart TV Pro, G08, G08_4K_GB, MediaTek tcl9618), European firmware | Google TV 14 |
 | TCL QM6K Pro, 2025 (G08, MediaTek tcl9618) | Google TV 14 |
 | TCL Smart TV (G07, G07_4K_GB_NF, Realtek RTD2851A, 2 GB) | Google TV 11 |
-| TCL Smart TV Pro (G03, G03_4K_GB, BeyondTV4, Realtek R51MT05, V8-R51MT05-LF1V620), Middle East firmware | Google TV 11 |
+| TCL Smart TV Pro (G03, G03_4K_GB / G03_4K_US, BeyondTV4, Realtek R51MT05, V8-R51MT05-LF1V620 / LF1V813), Middle East and US firmware | Google TV 11 |
 | TCL Smart TV Pro (G05, G05_4K_US, MediaTek MT5889); also TCL 55Q750G | Google TV 11 |
 | TCL Smart TV Pro (G08, G08_4K_GB, MediaTek), Australian firmware | Google TV 12 |
 | TCL Smart TV Pro (G08, G08_4K_GB, MediaTek), Europe/UK firmware | Android TV 12 |
@@ -486,7 +491,7 @@ tools/theme.sh themes/aurora                                 # push a theme; --r
 | [`tools/flamechart.py`](tools/flamechart.py) | Draws a before/after flame chart from those traces, for a pull request: one lane per thread on a shared time scale, the work a change targets in magenta with its total. Optional, like the trace tools. [Guide](tools/flamechart.md). |
 | [`tools/screendiff.py`](tools/screendiff.py) | Compares a before and an after screenshot pixel by pixel, leaving out the clock or anything you mask, and writes the pair with your Wi-Fi name blurred. Optional, like the trace tools. [Guide](tools/screendiff.md). |
 | [`tools/race_calendar.py`](tools/race_calendar.py) | Writes this season's F1 calendar into a theme for race-weekend mode, from the free Jolpica API. |
-| [`launcher/build-and-install.sh`](launcher/build-and-install.sh) | Builds a shrunk release (about 518 KB), installs it, switches Home, and rolls back if Home does not land on it. |
+| [`launcher/build-and-install.sh`](launcher/build-and-install.sh) | Builds a shrunk release (about 520 KB), installs it, switches Home, and rolls back if Home does not land on it. |
 
 The scripts never leave the TV without a Home app: they only disable a stock launcher they recognise,
 and skip the Home app in a list until another launcher answers HOME. Details below.
@@ -558,7 +563,7 @@ apps), which is why the report names that loss per package instead of calling it
 
 ## The launcher
 
-A small native home screen for Android TV: **about 518 KB**, plain Java, built for TVs with 1 GB of RAM.
+A small native home screen for Android TV: **about 520 KB**, plain Java, built for TVs with 1 GB of RAM.
 No blur, no video, no network permission, no background services.
 
 The **TV** needs Android 8.0 (API 26) or newer: `minSdk` is a compile-time floor in

diff --git a/docs/workflows/translation.md b/docs/workflows/translation.md
@@ -28,7 +28,7 @@
 7. Check the size gate before you push. A language's strings ship in the release APK, and that APK has to
    stay under 589,824 B (576 KB): `launcher/app/build/outputs/apk/release/app-release.apk`, measured with
    `stat -c %s` on Linux or `stat -f %z` on macOS, and checked by the "Launcher build and unit tests" job
-   on every pull request. `README.md` quotes the launcher at about 518 KB, so a full language can be the
+   on every pull request. `README.md` quotes the launcher at about 520 KB, so a full language can be the
    difference between green and a failed build. A language that does not fit is a maintainer decision, not
    something to land by dropping strings ([#1271](https://github.com/Gathin23/cleanyourtv/issues/1271)).
 8. Build the launcher, set the TV's language (Android 13+: `tools/tv.py 'cmd locale set-app-locales com.gathin.tvhome --locales <tag>'`)

diff --git a/.github/maintainer/MAINTAINER.md b/.github/maintainer/MAINTAINER.md
@@ -1,7 +1,7 @@
 # How CleanYourTV PRs are reviewed
 
 CleanYourTV (Gathin23/cleanyourtv) is a prompt plus tools that debloat Android TV / Google TV / Fire TV over
-ADB and a tiny native launcher (`launcher/`, plain Java, ~518 KB, for 1 GB TVs). Contributors mostly add
+ADB and a tiny native launcher (`launcher/`, plain Java, ~520 KB, for 1 GB TVs). Contributors mostly add
 tested TV lists under `examples/<tv>/`, translations, docs, small launcher options, themes, add-ons and tools.
 
 ## The policy: a small core plus a well-indexed hub
